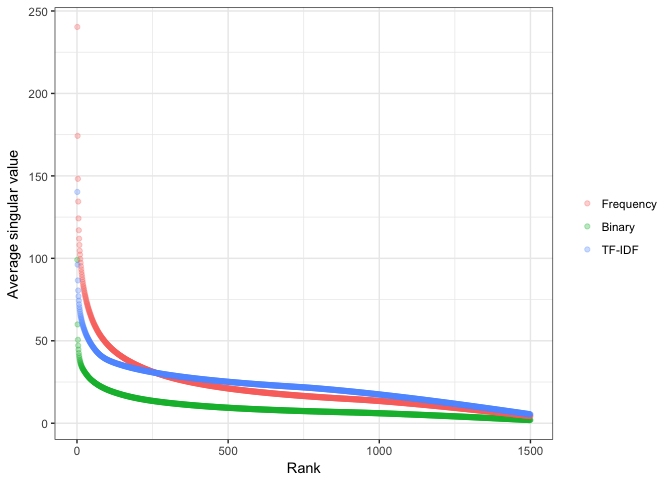
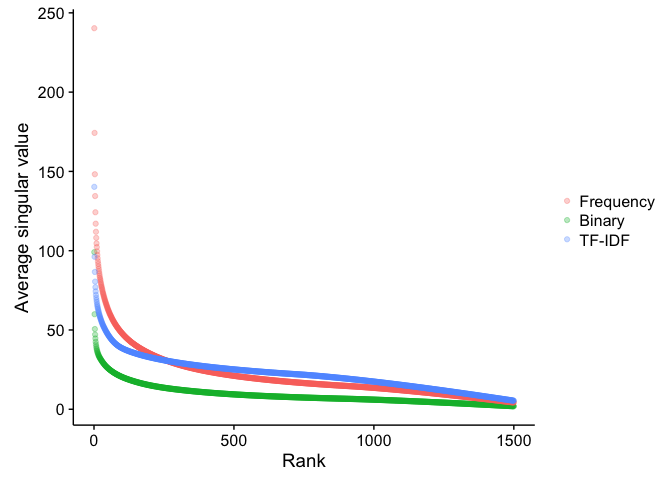
Use cowplots to simplify plots

diff --git a/PubMed_100_Random_Papers/Results/Multiple_Instances_top10/analysis_top10.md b/PubMed_100_Random_Papers/Results/Multiple_Instances_top10/analysis_top10.md
@@ -11,6 +11,7 @@ This shows the result of 92 repeats of small matrices experiment. The purpose is
 
 ```r
 library(ggplot2)
+library(cowplot)
 library(plyr)
 library(dplyr)
 library(knitr) # kable()
@@ -87,11 +88,12 @@ The lines are the means of precisions from 92 different experiments for a given 
 
 
 ```r
+require(cowplot)
 create_curves <- function(data, graphTitle){
   ggplot(data, aes(x=nsv, y=precision, colour=distFunc)) + geom_point(alpha=0.1) + 
-  facet_grid(matrixType ~ .) + theme_bw() + ggtitle(graphTitle) + scale_x_continuous(expand = c(0, 0), breaks=seq(0, 1500, by=100)) +
+  facet_grid(matrixType ~ .) +  ggtitle(graphTitle) + scale_x_continuous(expand = c(0, 0), breaks=seq(0, 1500, by=100)) +
   labs(x="# singular values",y="Average precision") +
-  theme(plot.title = element_text(color="#666666", face="bold", size=16, hjust=0.2, vjust=1), legend.title=element_blank())+ 
+  theme(legend.title=element_blank())+ 
   stat_summary(fun.y = mean, geom="line", size=1.0) + scale_colour_brewer(palette="Set2")
 }
 create_curves(all_result, "Average precisions in retrieving related PubMed articles")
@@ -143,7 +145,7 @@ coverage <- dplyr::mutate(coverage, cov = frobenius/matrix_norm)
 # Graph
 create_curves <- function(data){
   ggplot(data, aes(x=nsv, y=cov, colour=matrixType)) + geom_point(alpha=0.1) +
-  theme_bw() + scale_x_continuous(expand = c(0, 0), breaks=seq(0, 1500, by=100)) + 
+  scale_x_continuous(expand = c(0, 0), breaks=seq(0, 1500, by=100)) + 
   labs(x="# singular values",y="Average coverage") + 
   theme(plot.title = element_text(color="#666666", face="bold", size=16, hjust=0.2, vjust=1),legend.title=element_blank()) + 
   stat_summary(fun.y = mean, geom="line", size=1.0)
@@ -163,14 +165,14 @@ sVals  <-  ddply(sVals, c("matrix_type", "rank"), summarise, avg_sval = mean(sin
 sVals$matrix_type <- factor(sVals$matrix_type, levels=c("term_freq", "term_binary", "tf_idf"), labels=c("Frequency", "Binary", "TF-IDF"))
 
 # Plot singular value by rank plot
-ggplot(data=sVals, aes(x = rank, y=avg_sval, colour=matrix_type)) + geom_point(alpha=0.3) + labs(x="Rank",y="Average singular value") + theme_bw() + theme(legend.title=element_blank()) 
+ggplot(data=sVals, aes(x = rank, y=avg_sval, colour=matrix_type)) + geom_point(alpha=0.3) + labs(x="Rank",y="Average singular value")  + theme(legend.title=element_blank()) 
 ```
 
 ![](analysis_top10_files/figure-html/singular_val_plots-1.png)<!-- -->
 
 ```r
 # Plot error by rank 
-ggplot(data=sVals, aes(x = rank, y=avg_error, colour=matrix_type)) + geom_point(alpha=0.3) + labs(x="Rank",y="Average error estimates") + theme_bw() + theme(legend.title=element_blank())
+ggplot(data=sVals, aes(x = rank, y=avg_error, colour=matrix_type)) + geom_point(alpha=0.3) + labs(x="Rank",y="Average error estimates")  + theme(legend.title=element_blank())
 ```
 
 ![](analysis_top10_files/figure-html/singular_val_plots-2.png)<!-- -->
@@ -185,7 +187,7 @@ Here we take the maxima precision across all number of singular values in each s
 ```r
 max_mean <- aggregate(precision ~ matrixType + ExperimentNum + distFunc, max, data=all_result)  # see maximum of all combinations 
 ggplot(max_mean, aes(x=distFunc, y=precision, fill=distFunc)) + geom_boxplot(show.legend = FALSE) + 
-  theme_bw() + facet_wrap(~matrixType) + labs(y="maximum precisions",x="distance function") + 
+  facet_wrap(~matrixType) + labs(y="maximum precisions",x="distance function") + 
   theme(legend.title = element_text(size=14), 
         legend.text = element_text(size=14),
         axis.text = element_text(size=12), 
@@ -226,7 +228,7 @@ Here we take the nsv at which maxima precision occcurs across all number of sing
 ```r
 maxima_nsv <- merge(max_mean, all_result[, c("precision", "nsv")], by="precision") # bring in the number of nsv 
 ggplot(maxima_nsv, aes(x=distFunc, y=nsv, fill=distFunc)) + geom_boxplot(show.legend = FALSE) + 
-  theme_bw() + facet_wrap(~matrixType) + labs(y="# singular values at maximum precision",x="distance function")+ 
+  facet_wrap(~matrixType) + labs(y="# singular values at maximum precision",x="distance function")+ 
   theme(legend.title = element_text(size=14), 
         legend.text = element_text(size=14),
         axis.text = element_text(size=12), 
@@ -261,7 +263,7 @@ This is to see how long the calculation takes. So it looks like using cosine fun
 
 ```r
 ggplot(all_result_means, aes(x=nsv, y=meanTime, colour=distFunc)) + geom_point() + facet_grid(matrixType ~ .) + 
-  theme_bw() + labs(x="number of singular values", y="average time")  + scale_colour_brewer(palette="Set2") + theme(legend.title=element_blank())
+  labs(x="number of singular values", y="average time")  + scale_colour_brewer(palette="Set2") + theme(legend.title=element_blank())
 ```
 
 ![](analysis_top10_files/figure-html/unnamed-chunk-12-1.png)<!-- -->
